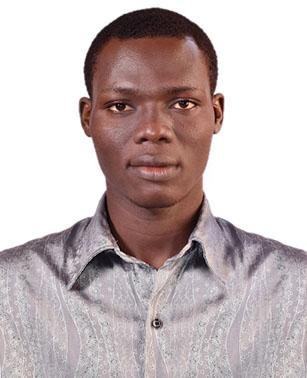
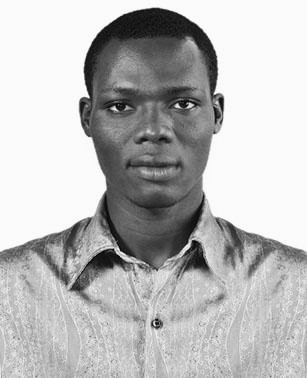
feat: Optimisations UX et performance
- Hero: Animation typewriter, suppression particules
- Équipe: Photos plus basses, cadrage amélioré
- Partenaires: Extension plein écran
- Navigation: Espacement anti-navbar, suppression TopBanner
- Performance: Polices système, images optimisées
- Technique: Supabase corrigé, recharts ajouté
- UX: Bouton contact vers LinkedIn, page CommunityRegle supprimée

Changed region(s): [[0.2638, 0.0873, 0.7329, 0.7275]]

diff --git a/src/app/components/BureauSection.tsx b/src/app/components/BureauSection.tsx
@@ -10,10 +10,10 @@ const membres = [
   { nom: "Abdoul Ouadoud", image: "/speaker17.3ac5cb2e.svg", linkedin: "", twitter: "https://bento.me/abdoul-ouadoud", facebook: "https://www.facebook.com/abdoulouadoud.bouraima" },
   { nom: "Ramane Boda", image: "/raman.jpg", linkedin: "https://www.linkedin.com/in/abdoul-rahamane-boda-78b829209?utm_source=share&utm_campaign=share_via&utm_content=profile&utm_medium=android_app", twitter: "https://x.com/Ramane_Boda?t=A6iRSZcqFvEpW1dAH2yryg&s=09", facebook: "https://www.facebook.com/Ramane.boda" },
   { nom: "Wilfried SOTODJI", image: "/will.jpeg", linkedin: "https://www.linkedin.com/in/wilfried-sotodji-42556a217?utm_source=share&utm_campaign=share_via&utm_content=profile&utm_medium=ios_app", twitter: "https://x.com/willy_btc", facebook: "https://www.facebook.com/MarxWilfriedS" },
+  { nom: "Béni-Christ Edaye Dokoui", image: "/beni.jpg", linkedin: "https://www.linkedin.com/in/mahougnon-b%C3%A9ni-christ-edaye-dokoui-254131336/", twitter: "https://x.com/BenedBTC", facebook: "https://www.facebook.com/beni.christ.edaye.dokoui.2025" },
   { nom: "Abdias Olaniran Afouda", image: "/abdias.svg", linkedin: "https://www.linkedin.com/in/abdias-afouda-06461022a?utm_source=share&utm_campaign=share_via&utm_content=profile&utm_medium=ios_app", twitter: "x.com/heyolaniran", facebook: "https://www.facebook.com/laurentAb143" },
   { nom: "Joseph QUAYE", image: "/jo.jpeg", linkedin: "https://www.linkedin.com/in/joseph-quaye-1170041b1/", twitter: "https://x.com/Jobitcoiner", facebook: "https://www.facebook.com/" },
   { nom: "Marshal Dekon", image: "/marshal.jpeg", facebook: "https://www.facebook.com/romeo.ken.9659?mibextid=rS40aB7S9Ucbxw6v", twitter: "https://x.com/MarshalOS_btc" },
-  { nom: "Béni-Christ Edaye Dokoui", image: "/beni.jpg", linkedin: "https://www.linkedin.com/in/mahougnon-b%C3%A9ni-christ-edaye-dokoui-254131336/", twitter: "https://x.com/BenedBTC", facebook: "https://www.facebook.com/beni.christ.edaye.dokoui.2025" },
   { nom: "Carlos Adimou", image: "/carlos.jpeg", linkedin: "https://www.linkedin.com/in/carlos-adimou?utm_source=share&utm_campaign=share_via&utm_content=profile&utm_medium=android_app", twitter: "https://x.com/CarlAdm04?t=ElCMdZbrohO16J6UzWS13w&s=09" },
   { nom: "Geoffroy Acakpo", image: "/geo.jpg", linkedin: "https://www.linkedin.com/in/g%C3%A9offroy-acakpo-a12a77252?utm_source=share&utm_campaign=share_via&utm_content=profile&utm_medium=android_app", twitter: "https://x.com/iamgeoffroy", facebook: "https://www.facebook.com/share/1DKDaaJsR2/" },
 ];
@@ -51,7 +51,7 @@ export default function TeamSection() {
 
       {/* ✅ Titre Section */}
       <motion.div
-        className="max-w-7xl mx-auto w-full mb-16"
+        className="max-w-7xl mx-auto w-full mb-24"
         variants={titleVariants}
       >
         <h2 className="text-3xl sm:text-4xl md:text-5xl font-bold text-white text-center">
@@ -62,22 +62,22 @@ export default function TeamSection() {
 
       {/*  Grille des membres */}
       <motion.ul
-        className="grid grid-cols-1 sm:grid-cols-2 lg:grid-cols-4 gap-8 max-w-7xl w-full"
+        className="grid grid-cols-1 sm:grid-cols-2 lg:grid-cols-4 gap-6 max-w-7xl w-full"
         variants={gridVariants}
       >
         {membres.map((membre, index) => (
           <motion.li
             key={index}
-            className="group glass-panel rounded-2xl overflow-hidden border border-white/5 hover:bg-white/5 transition-all duration-300 hover:-translate-y-2"
+            className="group rounded-2xl overflow-hidden hover:bg-white/5 transition-all duration-300 hover:-translate-y-2"
             variants={cardVariants}
           >
             {/* Image */}
-            <div className="relative w-full h-72 overflow-hidden">
+            <div className="relative w-full h-80 overflow-hidden">
               <Image
                 src={membre.image}
                 alt={membre.nom}
                 fill
-                className="object-cover transition-transform duration-700 group-hover:scale-110"
+                className="object-cover object-top transition-transform duration-700 group-hover:scale-110"
                 priority={index < 4}
               />
               <div className="absolute inset-0 bg-gradient-to-t from-black/90 via-transparent to-transparent opacity-80"></div>

diff --git a/src/app/statistiques/page.tsx b/src/app/statistiques/page.tsx
@@ -18,7 +18,7 @@ export default function StatistiquesPage() {
 
   return (
     <main className="bg-hero-gradient-dark text-white min-h-screen">
-      <div className="max-w-7xl mx-auto px-4 sm:px-6 lg:px-8 py-12">
+      <div className="max-w-7xl mx-auto px-4 sm:px-6 lg:px-8 pt-20 pb-12">
         <div className="flex items-center mb-8">
           <Link 
             href="/communaute" 
@@ -31,7 +31,7 @@ export default function StatistiquesPage() {
           </Link>
         </div>
 
-        <div className="text-center mb-12">
+        <div className="text-center mb-16">
           <h1 className="text-3xl md:text-4xl font-bold mb-4 animate-fade-in">Statistiques de la Communauté</h1>
           <p className="text-lg text-gray-300 max-w-3xl mx-auto animate-fade-in-delay">
             Découvrez les chiffres clés de notre communauté Bitcoin Bénin
@@ -39,7 +39,7 @@ export default function StatistiquesPage() {
         </div>
 
         {/* Section des statistiques principales */}
-        <div className="grid grid-cols-1 md:grid-cols-3 gap-8 mb-16">
+        <div className="grid grid-cols-1 md:grid-cols-3 gap-8 mb-20">
           <div className="bg-black bg-opacity-30 rounded-xl p-6 text-center border border-gray-700 transform transition-all duration-500 hover:scale-105 hover:shadow-xl">
             <div className="flex justify-center">
               <AnimatedCounter target={150} suffix="+" />
@@ -66,7 +66,7 @@ export default function StatistiquesPage() {
         </div>
 
         {/* Section détaillée */}
-        <div className="bg-black bg-opacity-30 rounded-xl p-6 md:p-8 border border-gray-700 mb-12 transform transition-all duration-700 hover:shadow-2xl">
+        <div className="bg-black bg-opacity-30 rounded-xl p-6 md:p-8 border border-gray-700 mb-16 transform transition-all duration-700 hover:shadow-2xl">
           <h2 className="text-2xl font-bold mb-6 text-vert animate-fade-in">Nos Activités en Chiffres</h2>
           
           <div className="grid grid-cols-1 md:grid-cols-2 gap-12">

diff --git a/src/app/components/Partners.tsx b/src/app/components/Partners.tsx
@@ -35,7 +35,7 @@ export default function Partners() {
       {/* Background pattern */}
       <div className="absolute inset-0 bg-gradient-to-br from-brand-dark via-brand-charcoal to-brand-dark opacity-50"></div>
       
-      <div className="relative z-10 mx-auto max-w-7xl px-6 lg:px-8">
+      <div className="relative z-10 w-full">
         <AnimatedWrapper
           variants={{
             hidden: { opacity: 0, y: 30 },
@@ -43,7 +43,7 @@ export default function Partners() {
           }}
           transition={{ duration: 0.8, ease: "easeOut" }}
         >
-          <div className="mx-auto max-w-4xl text-center w-full">
+          <div className="mx-auto max-w-4xl text-center w-full px-6 lg:px-8">
             <motion.span 
               className="text-brand-green font-semibold tracking-wide uppercase text-sm mb-4 block inline-block"
               whileHover={{ scale: 1.05 }}
@@ -61,9 +61,9 @@ export default function Partners() {
           </div>
         </AnimatedWrapper>
 
-        <div className="mx-auto mt-20 w-full overflow-hidden">
+        <div className="mt-20 w-full overflow-hidden">
           <motion.div
-            className="flex w-max gap-8"
+            className="flex w-max gap-8 px-6 lg:px-8"
             variants={logoGridVariants}
             animate={prefersReducedMotion ? undefined : { x: ['0%', '-50%'] }}
             transition={
@@ -100,7 +100,7 @@ export default function Partners() {
           }}
           transition={{ duration: 0.8, delay: 0.3, ease: "easeOut" }}
         >
-          <div className="mt-20 text-center w-full">
+          <div className="mt-20 text-center w-full px-6 lg:px-8">
             <a
               href="/contact"
               className="inline-flex items-center justify-center bg-gradient-to-r from-brand-green to-brand-accent hover:from-brand-green-dark hover:to-brand-green text-white font-semibold px-9 py-4 rounded-lg shadow-lg hover:shadow-glow transform hover:scale-105 transition-all duration-300 text-base"

diff --git a/src/lib/supabase.ts b/src/lib/supabase.ts
@@ -4,25 +4,38 @@ const supabaseUrl = process.env.NEXT_PUBLIC_SUPABASE_URL
 const supabaseAnonKey = process.env.NEXT_PUBLIC_SUPABASE_ANON_KEY
 const supabaseServiceKey = process.env.SUPABASE_SERVICE_ROLE_KEY
 
-// Vérification que les variables d'environnement sont disponibles
-export const supabase = supabaseUrl && supabaseAnonKey 
-  ? createClient(supabaseUrl, supabaseAnonKey, {
-      auth: {
-        persistSession: false,
-        autoRefreshToken: false,
-      }
-    })
-  : null
+// Client Supabase avec gestion d'erreurs
+let supabaseClient: ReturnType<typeof createClient> | null = null
+let supabaseAdminClient: ReturnType<typeof createClient> | null = null
 
-// Client admin pour les opérations serveur
-export const supabaseAdmin = supabaseUrl && supabaseServiceKey
-  ? createClient(supabaseUrl, supabaseServiceKey, {
+try {
+  if (supabaseUrl && supabaseAnonKey) {
+    supabaseClient = createClient(supabaseUrl, supabaseAnonKey, {
       auth: {
         persistSession: false,
         autoRefreshToken: false,
       }
     })
-  : null
+  }
+} catch (error) {
+  console.error('Erreur initialisation Supabase client:', error)
+}
+
+try {
+  if (supabaseUrl && supabaseServiceKey) {
+    supabaseAdminClient = createClient(supabaseUrl, supabaseServiceKey, {
+      auth: {
+        persistSession: false,
+        autoRefreshToken: false,
+      }
+    })
+  }
+} catch (error) {
+  console.error('Erreur initialisation Supabase admin:', error)
+}
+
+export const supabase = supabaseClient
+export const supabaseAdmin = supabaseAdminClient
 
 // Fonction pour nettoyer les sessions corrompues
 export const clearSupabaseSession = async () => {

diff --git a/src/app/layout.tsx b/src/app/layout.tsx
@@ -1,29 +1,9 @@
 import type { Metadata } from "next";
-import { Inter, Orbitron, JetBrains_Mono } from "next/font/google";
 import Script from 'next/script';
 import Header from "./components/Header";
 import Footer from "./components/Footer";
 import AccessibilityPreferences from "./components/AccessibilityPreferences";
 import "./globals.css";
-
-const inter = Inter({ 
-  subsets: ["latin"], 
-  variable: '--font-inter',
-  display: 'optional',
-  preload: true
-});
-const orbitron = Orbitron({ 
-  subsets: ["latin"], 
-  variable: '--font-orbitron', 
-  display: 'optional',
-  preload: false
-});
-const jetbrainsMono = JetBrains_Mono({ 
-  subsets: ["latin"], 
-  variable: '--font-jetbrains-mono', 
-  display: 'optional',
-  preload: false
-});
 
 export const metadata: Metadata = {
   title: {
@@ -91,7 +71,7 @@ export default function RootLayout({
           `
         }} />
       </head>
-      <body className={`${inter.variable} ${orbitron.variable} ${jetbrainsMono.variable} font-sans bg-brand-dark text-gray-300 antialiased selection:bg-brand-green selection:text-white overflow-x-hidden`} style={{ fontFamily: 'system-ui, -apple-system, sans-serif' }}>
+      <body className="font-sans bg-brand-dark text-gray-300 antialiased selection:bg-brand-green selection:text-white overflow-x-hidden" style={{ fontFamily: 'system-ui, -apple-system, BlinkMacSystemFont, "Segoe UI", Roboto, sans-serif' }}>
         <Script
           id="structured-data"
           type="application/ld+json"

diff --git a/src/app/components/NosRessources.tsx b/src/app/components/NosRessources.tsx
@@ -40,12 +40,14 @@ export default function NosRessources() {
               NOTRE CHAÎNE YOUTUBE
             </a>
 
-            <Link
-              href="/CommunityRegle"
+            <a
+              href="https://www.linkedin.com/company/bitcoin-b%C3%A9nin"
+              target="_blank"
+              rel="noopener noreferrer"
               className="px-8 py-4 rounded-full font-bold text-white border border-white/10 bg-white/5 hover:bg-white/10 hover:border-brand-orange/50 transition-all duration-300 text-center"
             >
               ENTRER EN CONTACT
-            </Link>
+            </a>
           </div>
         </div>
 

diff --git a/src/app/components/Header.tsx b/src/app/components/Header.tsx
@@ -6,7 +6,6 @@ import { useState, useEffect } from 'react';
 import { NAV_LINKS, SOCIAL_LINKS } from '../data';
 import { FaBars, FaTimes } from 'react-icons/fa';
 import Button from './ui/Button';
-import TopBanner from './TopBanner';
 import { usePathname } from 'next/navigation';
 
 
@@ -94,11 +93,6 @@ export default function Header() {
         >
           {isMenuOpen ? <FaTimes size={20} /> : <FaBars size={20} />}
         </button>
-      </div>
-
-      {/* TopBanner Positioned Below Navbar */}
-      <div className="flex justify-center mt-3 relative z-40">
-        <TopBanner />
       </div>
 
       {/* Mobile Menu Overlay */}

diff --git a/src/app/components/Regles.tsx b/src/app/components/Regles.tsx
@@ -2,7 +2,7 @@ import Link from "next/link";
 
 export default function Communautes() {
   return (
-    <section className="bg-anthracite text-white py-16 px-6">
+    <section className="bg-anthracite text-white py-24 px-6">
       <div className="max-w-7xl mx-auto grid grid-cols-1 lg:grid-cols-2 gap-16">
 
         {/* ✅ Bloc Telegram */}

diff --git a/src/app/communaute/page.tsx b/src/app/communaute/page.tsx
@@ -12,7 +12,7 @@ export const metadata: Metadata = {
 
 export default function CommunautePage() {
   return (
-    <main className="min-h-screen pt-20">
+    <main className="min-h-screen pt-28">
       <Communaute />
       <Communautesection />
       <Communautesection1 />
